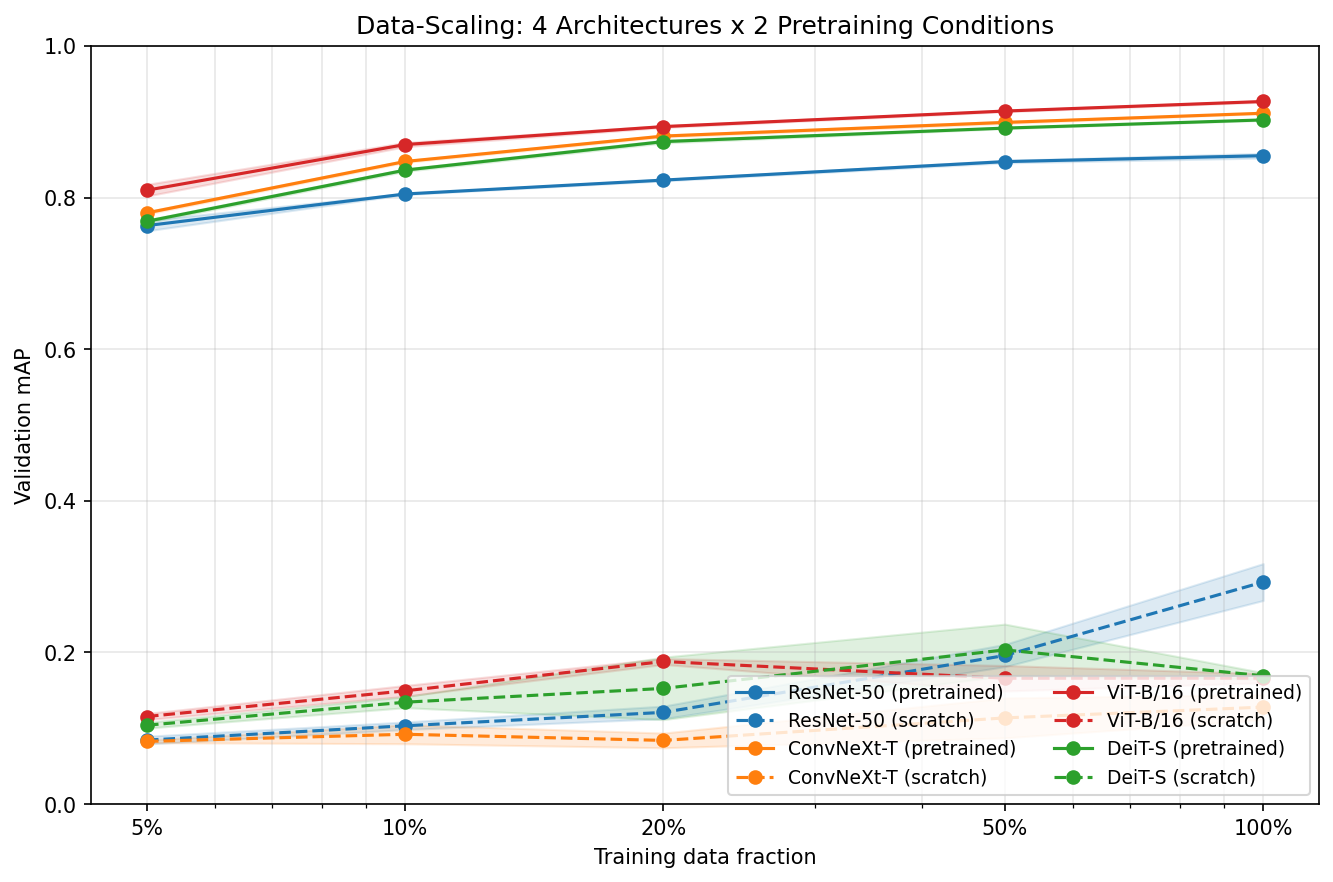
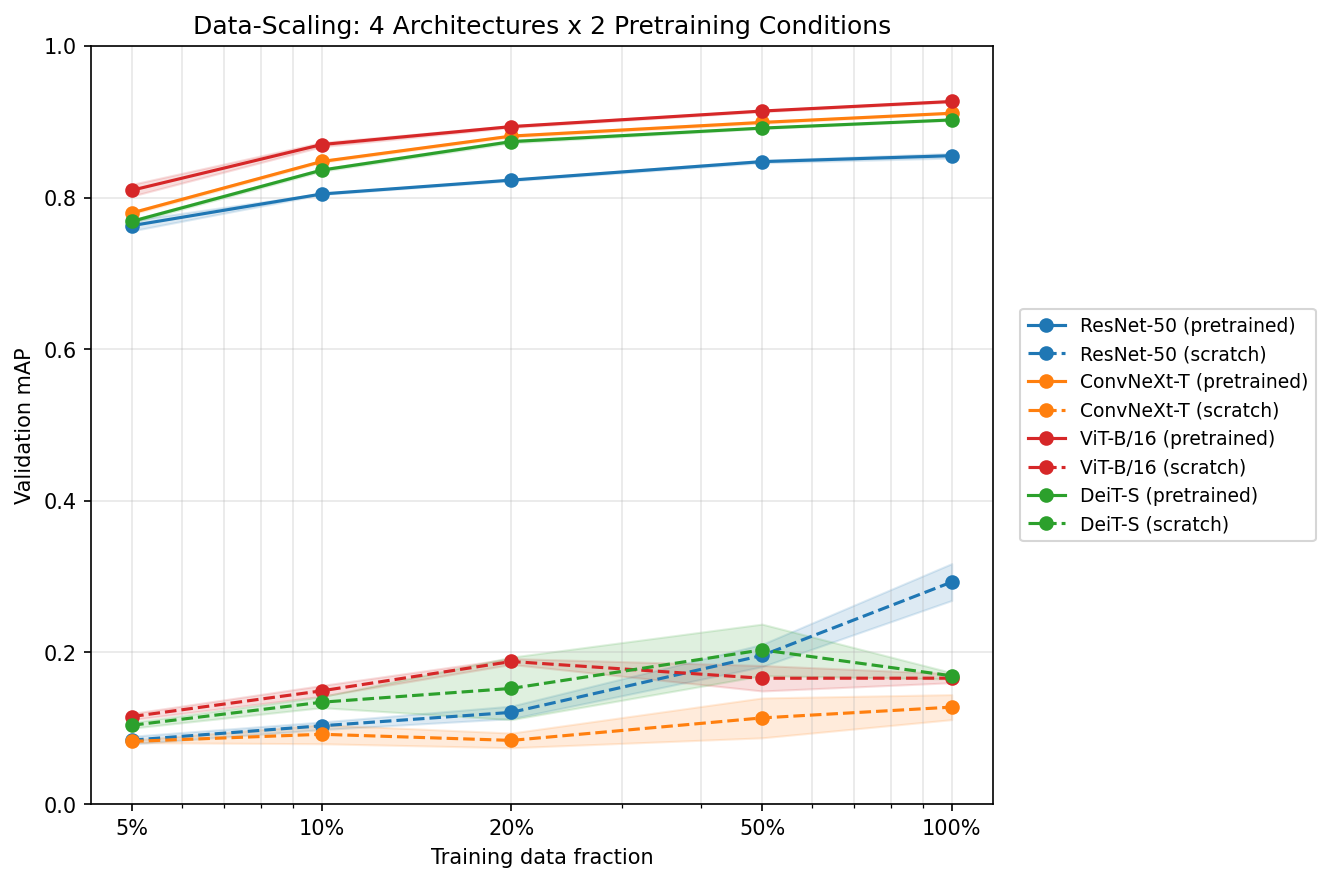
Move data-scaling legend outside the axes
The "lower right" legend was covering the from-scratch lines, which
cluster near the bottom of the plot. Anchor it to the right of the axes
so all 8 lines are readable.

diff --git a/scripts/make_figures.py b/scripts/make_figures.py
@@ -222,7 +222,7 @@ def fig_data_scaling():
     ax.set_title("Data-Scaling: 4 Architectures x 2 Pretraining Conditions")
     ax.set_ylim(0, 1.0)
     ax.grid(True, alpha=0.3, which="both")
-    ax.legend(loc="lower right", ncol=2, fontsize=9)
+    ax.legend(loc="center left", bbox_to_anchor=(1.02, 0.5), fontsize=9)
 
     fig.tight_layout()
     fig.savefig(FIGURES_DIR / "data_scaling.png", dpi=150, bbox_inches="tight")
